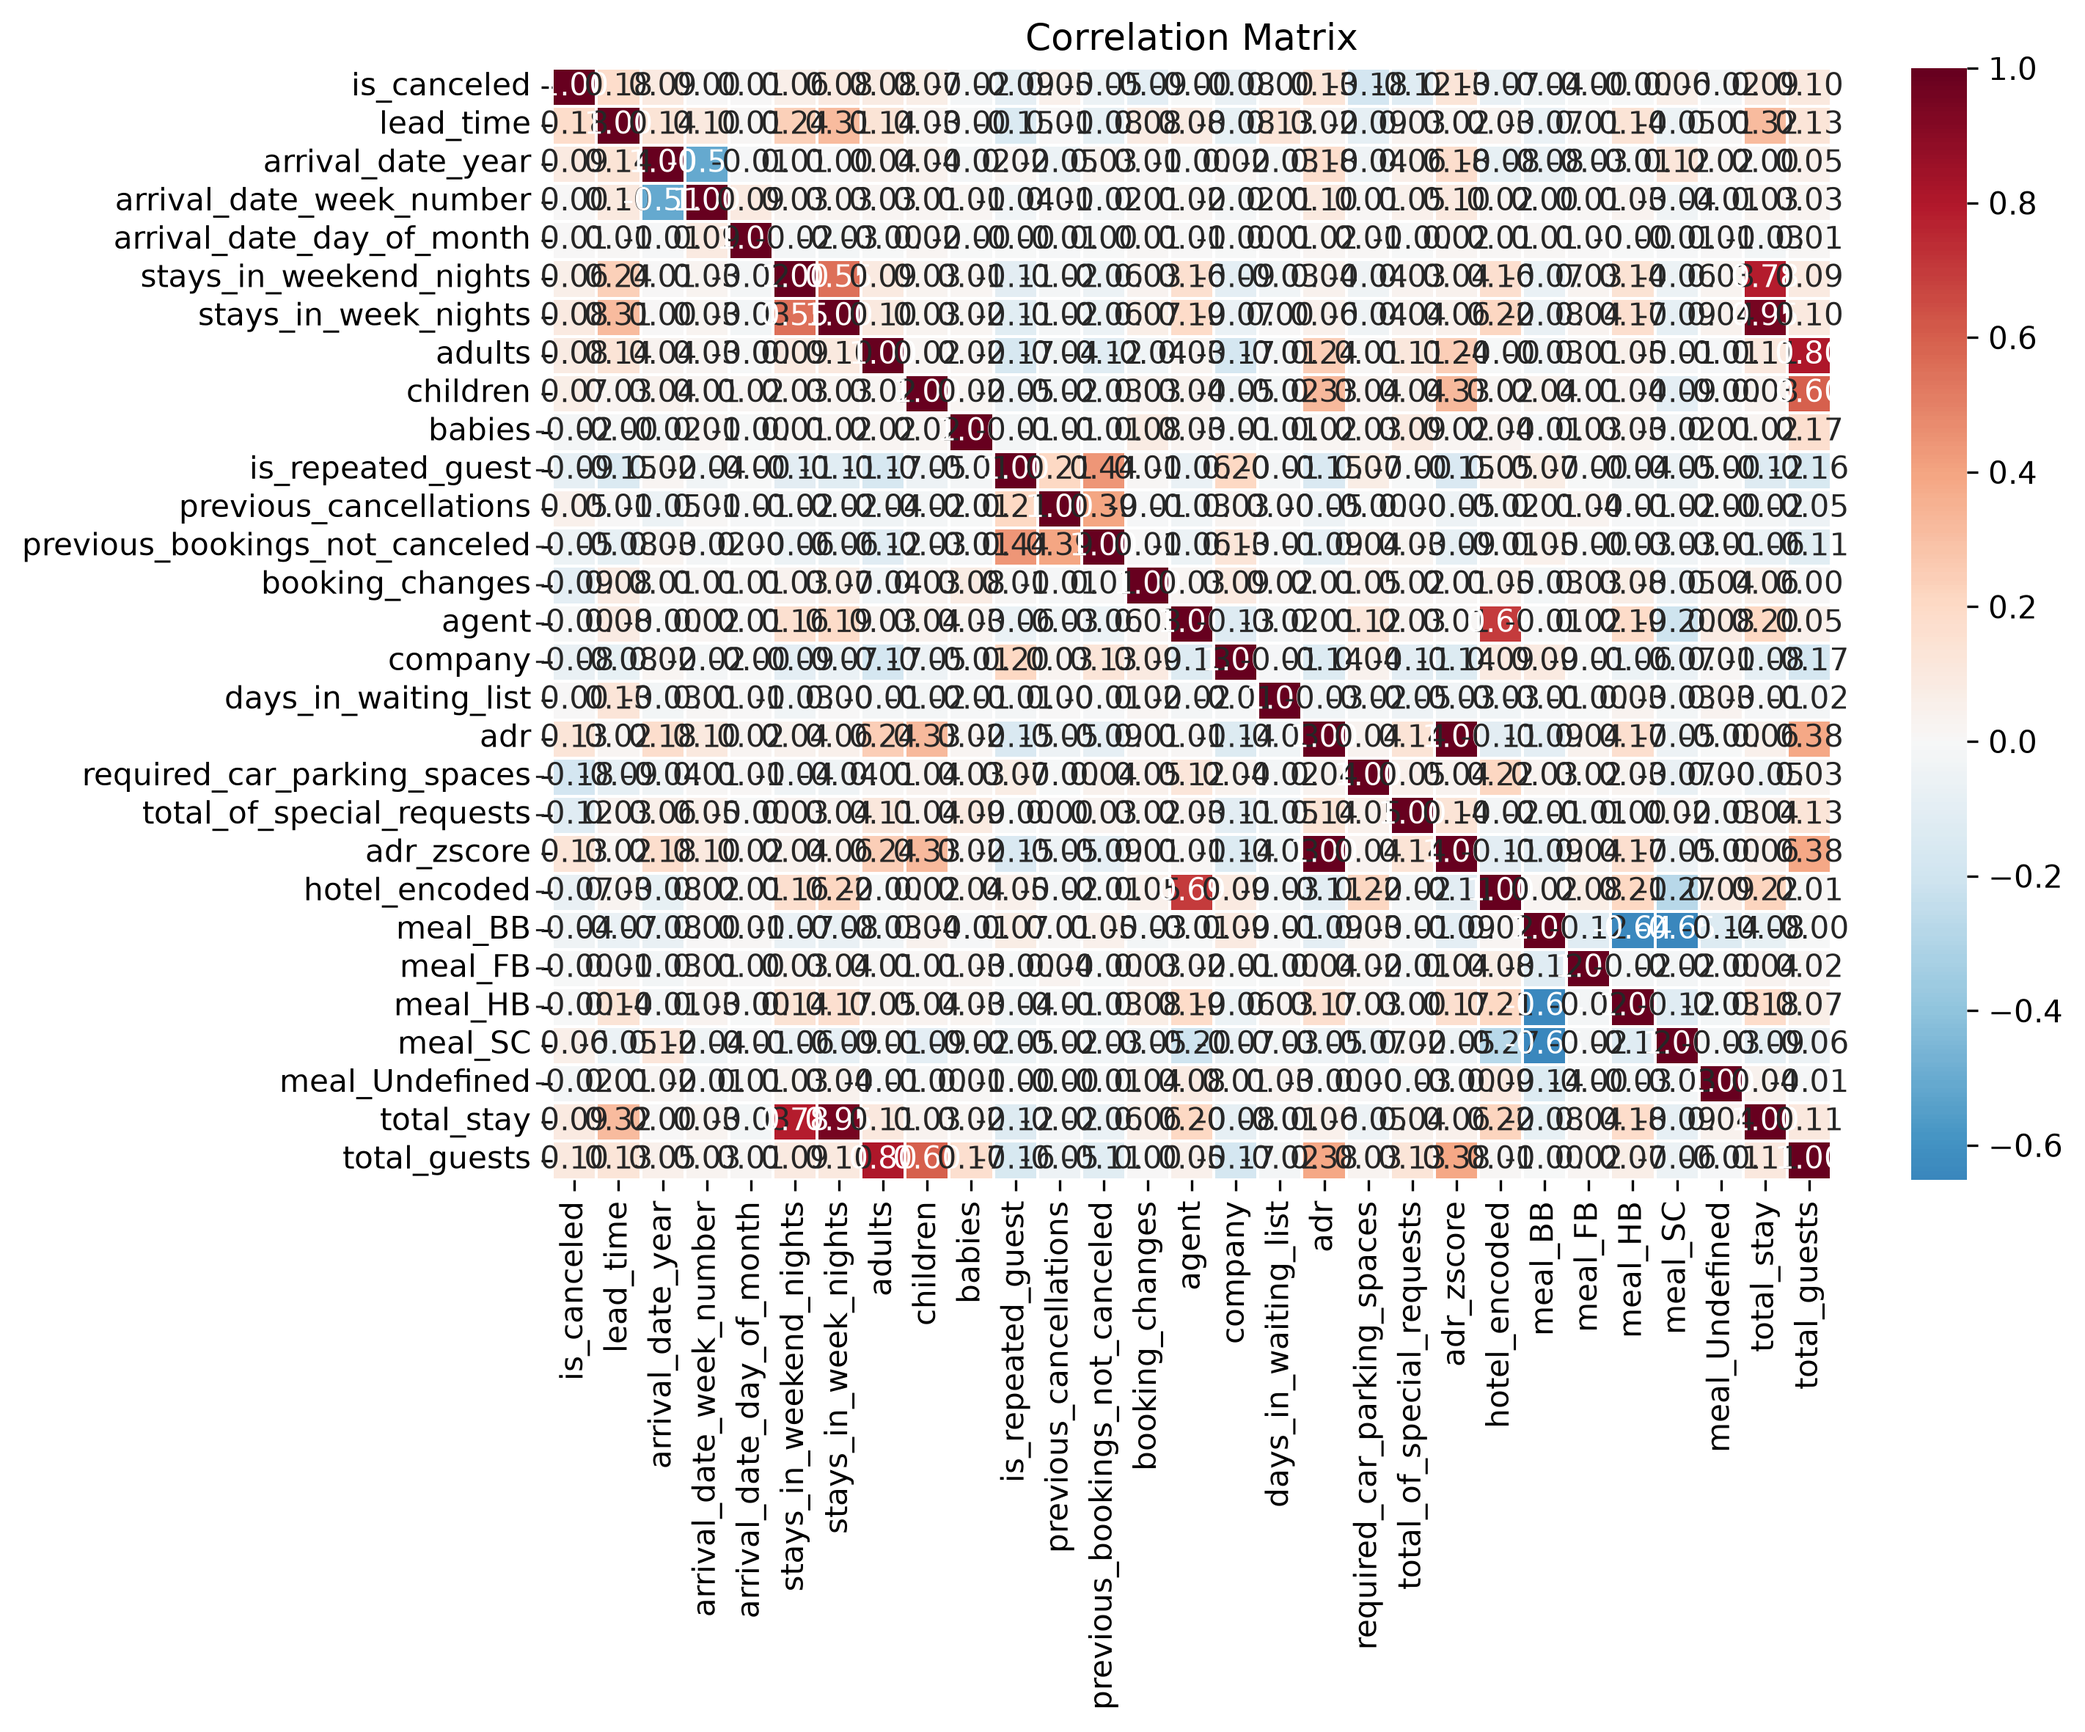
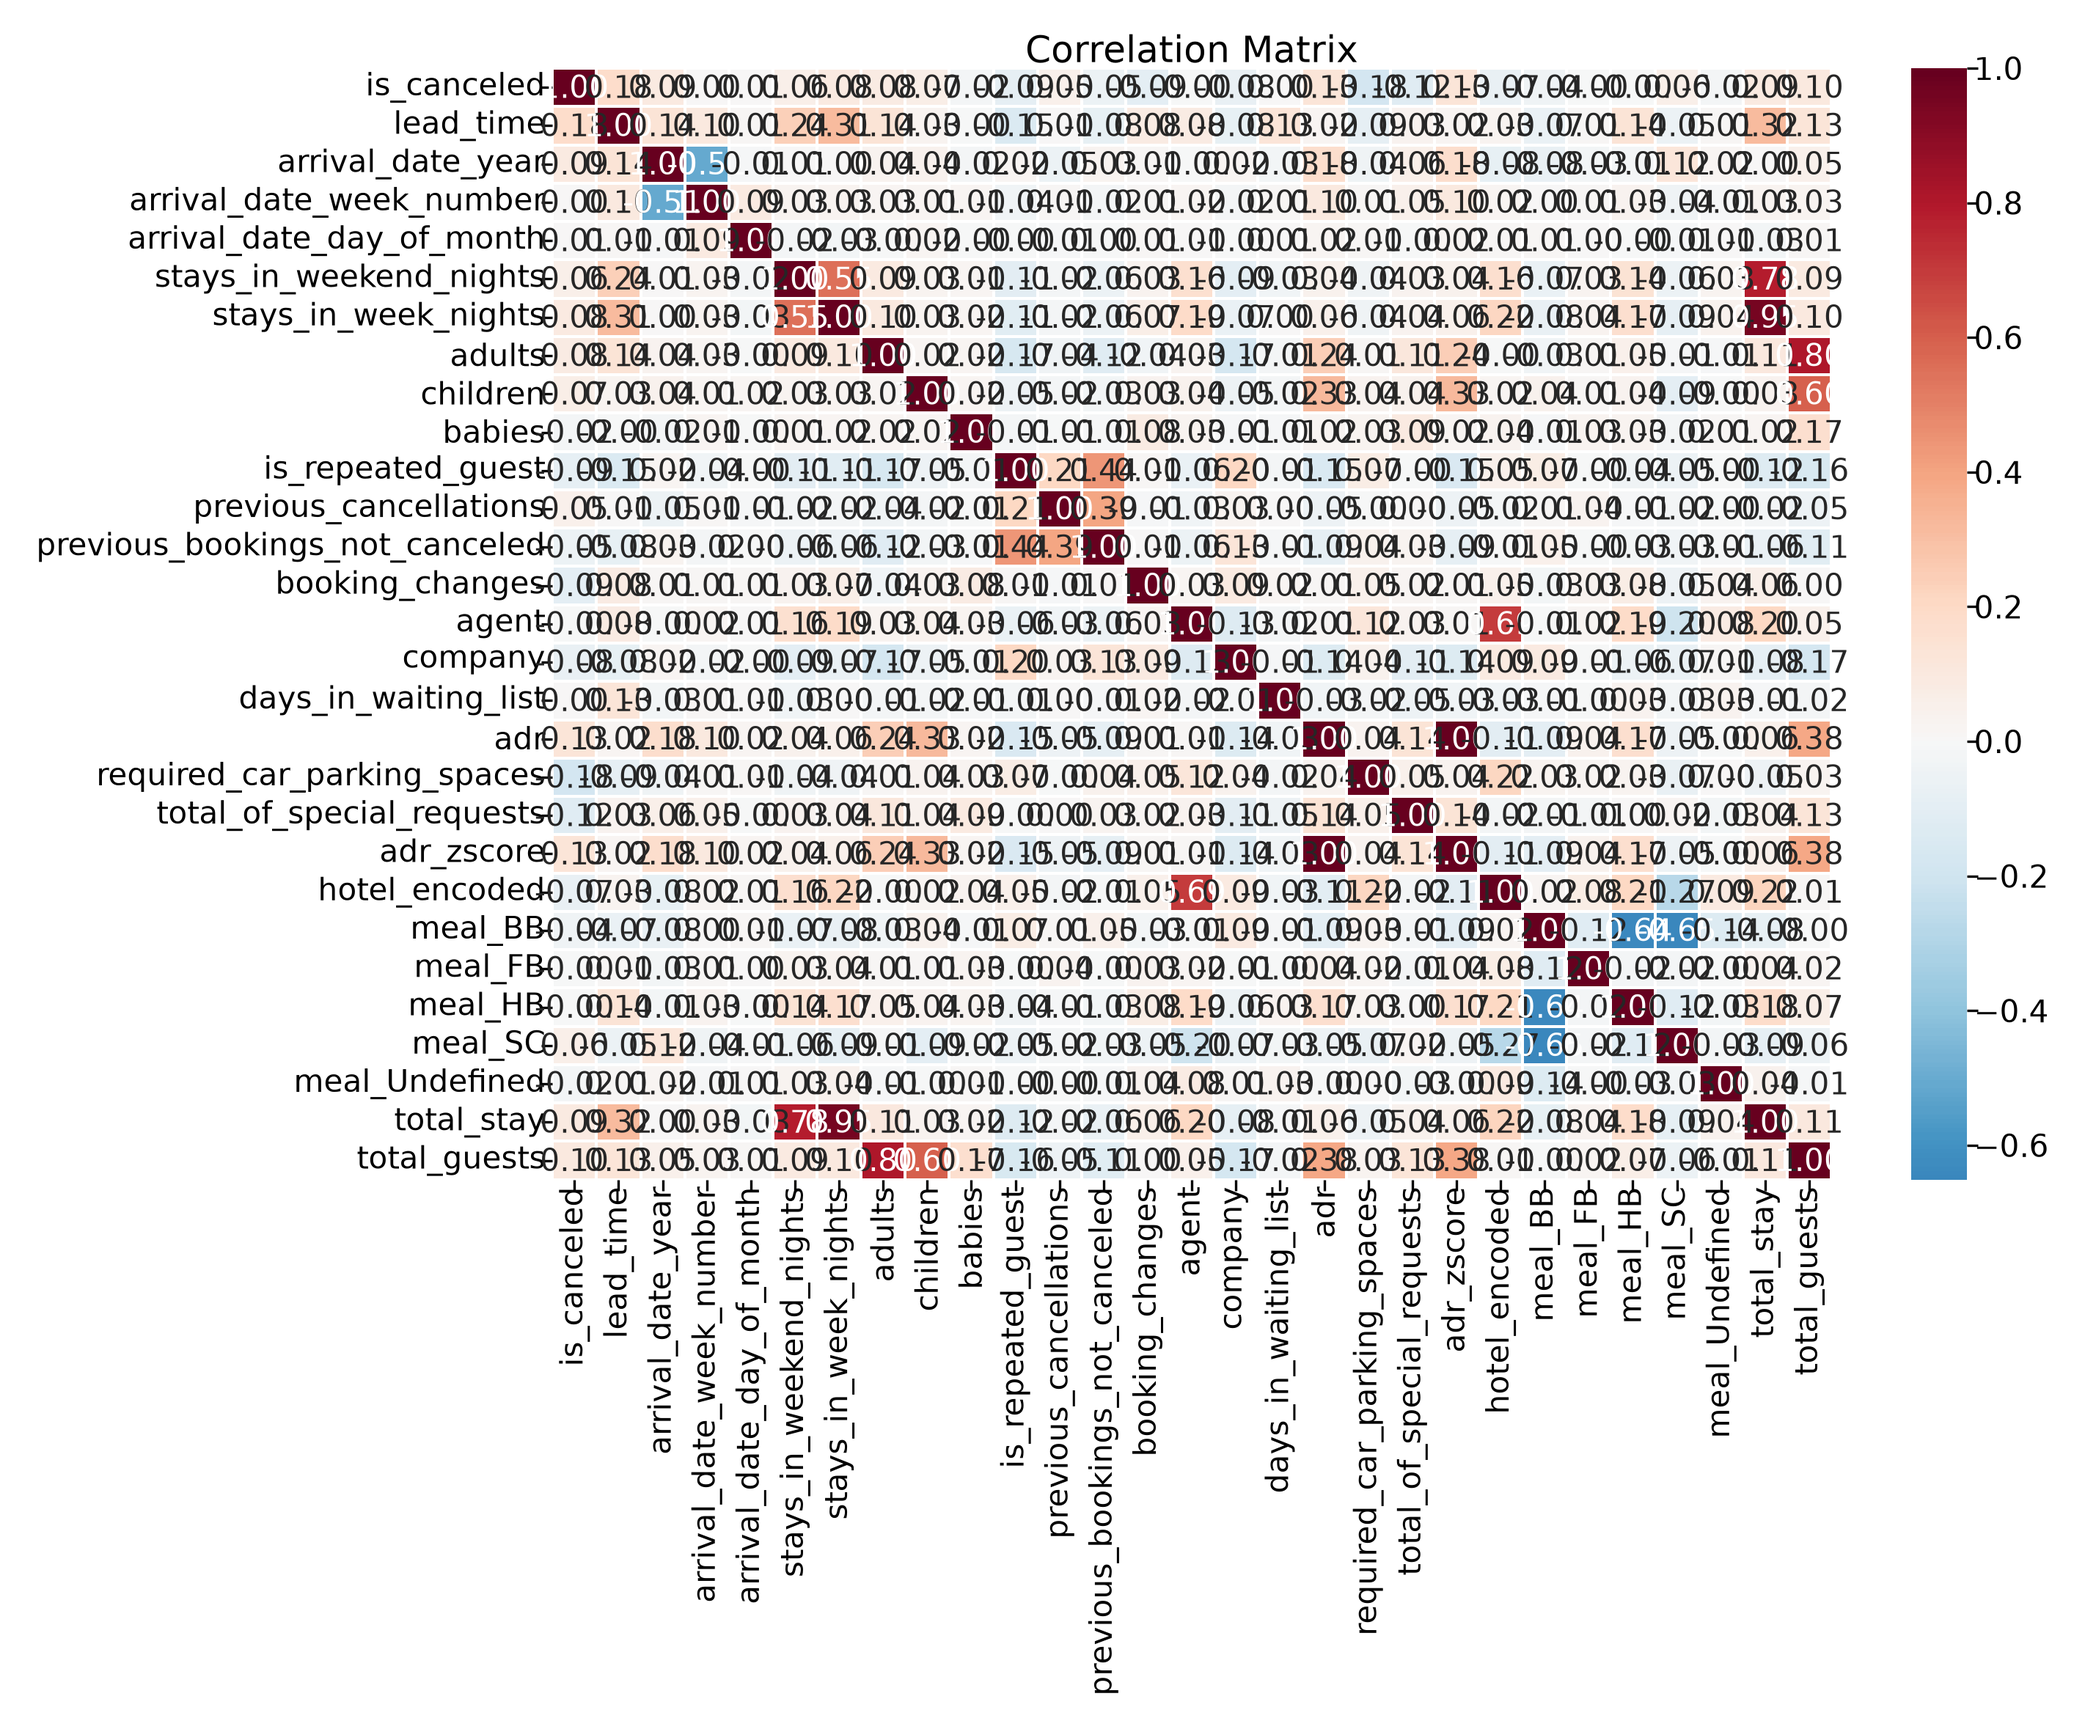
Add screenshots in READMe file

diff --git a/hotel_booking/README.md b/hotel_booking/README.md
@@ -375,6 +375,41 @@ Users can download:
 * Statistical Report
 * Hypothesis Testing Report
 
+# 📸 Application Screenshots
+
+## 🏠 Dashboard
+
+![Dashboard](screenshots/dashboard.png)
+
+---
+
+## 🏨 Booking Analytics
+
+![Booking Analytics](screenshots/booking.png)
+
+---
+
+## 💰 Revenue Analytics
+
+![Revenue Analytics](screenshots/revenue.png)
+
+---
+
+## 📊 Statistical Analysis
+
+![Statistical Analysis](screenshots/statistics.png)
+
+---
+
+## 🔍 Dataset Explorer
+
+![Dataset Explorer](screenshots/explorer.png)
+
+---
+
+## 📄 Reports
+
+![Reports](screenshots/reports.png)
 ---
 
 # ▶ How to Run Project
